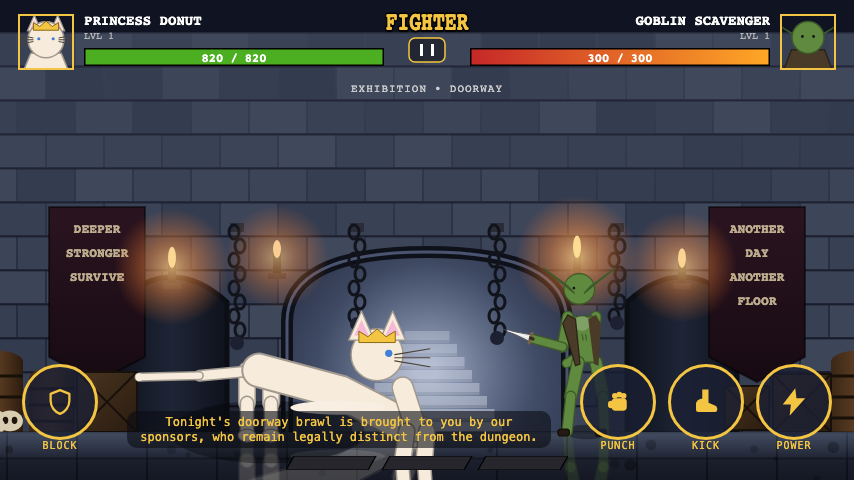
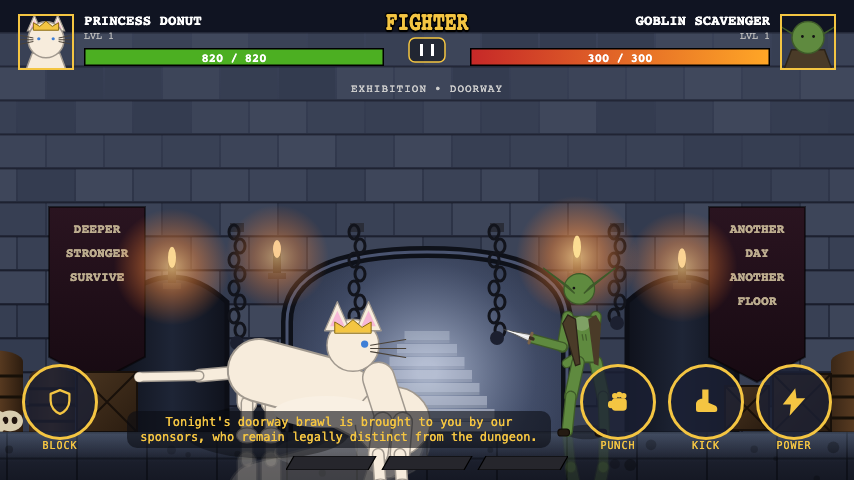
fix: filled quad bodies; calm grub and rat shots
Donut/Grub/Mother Rat's body capsule in drawQuad was sized off leg
width (legW*2.1), reading as a thin wire-bodied noodle next to the
human rig's filled torso. Size it off bodyLen instead (bodyLen*.42),
add a rounder-chest roundel and a wider belly band, tighten each leg's
upper-to-lower taper (.78 -> .55), and trim bodyLen ~15% on all three
looks so the wider body reads long-and-low instead of snake-like.

Regenerated all p3-donut-*.png and p3-quads.png with the filled
bodies. Added docs/shots/p3-grub.png (as p1, since p2's default spawn
position puts a low-slung quad's hip/legs/tail under the always-on
touch-control row) and retook p3-mother.png via --pose idle --floor 2
--node boss for a calm establishing shot instead of a mid-attack frame.

Changed region(s): [[0.1522, 0.625, 0.5176, 1.0]]

diff --git a/index.html b/index.html
@@ -1106,9 +1106,12 @@ const LOOKS={
   // chain accumulates pitch angle segment over segment (spineA, then chestA=spineA+a('chest')), so
   // even a few degrees of "breathing" tilt lifts the chest (and therefore the front-paw attach point)
   // measurably above the hip line, unlike the human rig's independent per-limb angles.
+  // Fix round 1 (art review): bodyLen trimmed ~15% (170->144) and legW bumped (15->18) so the body
+  // capsule drawQuad now draws (width = bodyLen*.42, a filled rounded shape, not a thin stroke) reads
+  // as "long and low", not a snake — see drawQuad's body-drawing comment for the shape itself.
   donut:{rig:'quad',species:'cat',skin:'#f7ecdc',earInner:'#f6b8d6',eye:'#3f7fd6',accent:'#f4c542',
-    hipH:65,legLen:65,bodyLen:170,neckLen:46,headR:26,tailLen:120,
-    frontW:20,backW:24,legW:15,
+    hipH:65,legLen:65,bodyLen:144,neckLen:46,headR:26,tailLen:120,
+    frontW:20,backW:24,legW:18,
     props:['tiara','whiskers']},
   // PLACEHOLDER (Task 3.4 gives Mongo his own RigBig brute rig): a scaled-down copy of the
   // hobgoblin's proportions (def.scale is already 1.25 — full hobgoblin proportions on top of that
@@ -1142,9 +1145,12 @@ const LOOKS={
   // neckLen and headR*1.6 close to 1:1 (46 vs 41.6, 42 vs 41.6); grub matches that ratio at a
   // smaller absolute size instead (headR:16 -> headR*1.6=25.6, neckLen:20) so the head capsule sits
   // snug against the body the way "a dark head capsule" implies.
+  // Fix round 1 (art review): bodyLen trimmed ~15% (140->119) for the same filled-capsule-body
+  // reason as donut above; legW trimmed slightly (16->14) so the now-plumper body still contrasts
+  // against genuinely "stubby nub" legs rather than the legs bulking up to match it.
   grub:{rig:'quad',species:'grub',skin:'#c7d19a',headFill:'#33401d',segDark:'#5a6a30',
-    hipH:40,legLen:40,bodyLen:140,neckLen:15,headR:17,tailLen:36,
-    frontW:13,backW:13,legW:16,
+    hipH:40,legLen:40,bodyLen:119,neckLen:15,headR:17,tailLen:36,
+    frontW:13,backW:13,legW:14,
     props:['segments']},
   // PLACEHOLDER (Task 3.4 gives Grull his own RigBig rig): a scaled-down copy of the hobgoblin's
   // proportions (def.scale is 1.3, the biggest in the roster — see the mongo comment above for why
@@ -1156,10 +1162,12 @@ const LOOKS={
   // Mother Rat (boss): Task 3.4's RigQuad bone set at boss scale (def.scale:1.3, applied on top of
   // these already-large numbers). Grey-brown fur, a long pink tail, big rounded ears, and yellow
   // teeth drawn in drawQuad.
+  // Fix round 1 (art review): bodyLen trimmed ~15% (170->144), legW bumped (18->20) for "bulkier
+  // chest/haunches" on top of the filled-capsule body drawQuad now draws for every quad look.
   mother_rat:{rig:'quad',species:'rat',skin:'#6b5a4a',earInner:'#d98fa0',tailTint:'#d98fa0',
     teeth:'#e8d24a',eye:'#1a1a1a',
-    hipH:65,legLen:65,bodyLen:170,neckLen:42,headR:26,tailLen:170,
-    frontW:22,backW:26,legW:18,
+    hipH:65,legLen:65,bodyLen:144,neckLen:42,headR:26,tailLen:170,
+    frontW:22,backW:26,legW:20,
     props:['teeth']}};
 
 // Resolves a def's look, falling back to LOOKS.carl (once, with a console.warn) for a Phase-3-added
@@ -1372,22 +1380,32 @@ const Rig={
       c.lineWidth=w;c.strokeStyle=col||look.skin;c.beginPath();c.moveTo(p.x,p.y);c.lineTo(q.x,q.y);c.stroke()};
     const paw=(p)=>{const r=look.legW*.58;c.fillStyle=look.skin;c.strokeStyle=skinDark;c.lineWidth=1.2;
       c.beginPath();c.ellipse(p.x,p.y,r,r*.72,0,0,Math.PI*2);c.fill();c.stroke()};
-    // back legs first (behind the body), then the tail (base tucks under the hip)
-    limb(j.blHip,j.bl1,look.legW);limb(j.bl1,j.bl2,look.legW*.78);paw(j.bl2);
-    limb(j.brHip,j.br1,look.legW);limb(j.br1,j.br2,look.legW*.78);paw(j.br2);
+    // back legs first (behind the body), then the tail (base tucks under the hip). Upper legs
+    // noticeably thicker than lower (.55 taper, was .78 in round 1 — art review called the whole rig
+    // "wire-bodied" and this taper is part of giving it real limb volume, matching the human rig's
+    // own thigh/shin taper).
+    limb(j.blHip,j.bl1,look.legW);limb(j.bl1,j.bl2,look.legW*.55);paw(j.bl2);
+    limb(j.brHip,j.br1,look.legW);limb(j.br1,j.br2,look.legW*.55);paw(j.br2);
     limb(j.hip,j.tail1,look.legW*.6,look.tailTint);limb(j.tail1,j.tail2,look.legW*.42,look.tailTint);
     c.fillStyle=look.tailTint||look.skin;c.beginPath();c.arc(j.tail2.x,j.tail2.y,look.legW*.26,0,Math.PI*2);c.fill();
-    // body capsule: a single thick rounded stroke hip->spine->chest, dark outline under a lighter
-    // fill, plus a chest/belly highlight ellipse (the same trick the human torso uses for definition).
+    // Filled body: art review (Fix round 1) called the original hip->chest stroke (width
+    // look.legW*2.1, ~31.5 for donut over a 170-unit body) a "noodle" next to the human rig's filled
+    // torso. bodyW is now tied to bodyLen itself (0.42x) instead of leg thickness, so trimming
+    // bodyLen (also done this round) and widening the body are the same lever — a round, low body
+    // instead of a thin long one. Still drawn as a thick round-capped/joined stroke along
+    // hip->spine->chest (so it follows the spine's pitch bend during pounces/rear-ups instead of a
+    // rigid ellipse), plus a rounder-chest roundel at the front end and a lighter belly band.
     c.lineCap='round';c.lineJoin='round';
-    const bodyW=look.legW*2.1;
+    const bodyW=look.bodyLen*.42;
     c.lineWidth=bodyW+4;c.strokeStyle=skinDark;
     c.beginPath();c.moveTo(j.hip.x,j.hip.y);c.lineTo(j.spine.x,j.spine.y);c.lineTo(j.chest.x,j.chest.y);c.stroke();
     c.lineWidth=bodyW;c.strokeStyle=look.skin;
     c.beginPath();c.moveTo(j.hip.x,j.hip.y);c.lineTo(j.spine.x,j.spine.y);c.lineTo(j.chest.x,j.chest.y);c.stroke();
-    c.fillStyle=shade(look.skin,.18);c.beginPath();
-    c.ellipse((j.hip.x+j.chest.x)/2,(j.hip.y+j.chest.y)/2+bodyW*.22,look.bodyLen*.28,bodyW*.22,0,0,Math.PI*2);c.fill();
-    limb(j.chest,j.neck,bodyW*.62);
+    c.fillStyle=look.skin;c.beginPath();c.ellipse(j.chest.x,j.chest.y,bodyW*.62,bodyW*.58,0,0,Math.PI*2);c.fill();
+    c.lineWidth=1.5;c.strokeStyle=skinDark;c.stroke();
+    c.fillStyle=shade(look.skin,.2);c.beginPath();
+    c.ellipse((j.hip.x+j.chest.x)/2,(j.hip.y+j.chest.y)/2+bodyW*.26,look.bodyLen*.36,bodyW*.26,0,0,Math.PI*2);c.fill();
+    limb(j.chest,j.neck,bodyW*.5);
     // head: a distinct headFill for the grub's dark capsule, otherwise the body's own skin color
     const headFill=look.headFill||look.skin;
     c.fillStyle=headFill;c.beginPath();c.arc(j.head.x,j.head.y,look.headR,0,Math.PI*2);c.fill();
@@ -1411,8 +1429,8 @@ const Rig={
     c.fillStyle=look.eye||'#141414';
     c.beginPath();c.arc(j.head.x+face*look.headR*.45,j.head.y-look.headR*.05,look.headR*.14,0,Math.PI*2);c.fill();
     // front legs, drawn last of the limbs so they sit in front of the body
-    limb(j.flHip,j.fl1,look.legW);limb(j.fl1,j.fl2,look.legW*.78);paw(j.fl2);
-    limb(j.frHip,j.fr1,look.legW);limb(j.fr1,j.fr2,look.legW*.78);paw(j.fr2);
+    limb(j.flHip,j.fl1,look.legW);limb(j.fl1,j.fl2,look.legW*.55);paw(j.fl2);
+    limb(j.frHip,j.fr1,look.legW);limb(j.fr1,j.fr2,look.legW*.55);paw(j.fr2);
     for(const p of look.props||[]){
       if(p==='tiara'){ // a small gold crown resting between the ears
         const w=look.headR*.7,h=look.headR*.42,cx=j.head.x,cy=j.head.y-look.headR*.9;

diff --git a/src/68_rig.js b/src/68_rig.js
@@ -315,9 +315,12 @@ const LOOKS={
   // chain accumulates pitch angle segment over segment (spineA, then chestA=spineA+a('chest')), so
   // even a few degrees of "breathing" tilt lifts the chest (and therefore the front-paw attach point)
   // measurably above the hip line, unlike the human rig's independent per-limb angles.
+  // Fix round 1 (art review): bodyLen trimmed ~15% (170->144) and legW bumped (15->18) so the body
+  // capsule drawQuad now draws (width = bodyLen*.42, a filled rounded shape, not a thin stroke) reads
+  // as "long and low", not a snake — see drawQuad's body-drawing comment for the shape itself.
   donut:{rig:'quad',species:'cat',skin:'#f7ecdc',earInner:'#f6b8d6',eye:'#3f7fd6',accent:'#f4c542',
-    hipH:65,legLen:65,bodyLen:170,neckLen:46,headR:26,tailLen:120,
-    frontW:20,backW:24,legW:15,
+    hipH:65,legLen:65,bodyLen:144,neckLen:46,headR:26,tailLen:120,
+    frontW:20,backW:24,legW:18,
     props:['tiara','whiskers']},
   // PLACEHOLDER (Task 3.4 gives Mongo his own RigBig brute rig): a scaled-down copy of the
   // hobgoblin's proportions (def.scale is already 1.25 — full hobgoblin proportions on top of that
@@ -351,9 +354,12 @@ const LOOKS={
   // neckLen and headR*1.6 close to 1:1 (46 vs 41.6, 42 vs 41.6); grub matches that ratio at a
   // smaller absolute size instead (headR:16 -> headR*1.6=25.6, neckLen:20) so the head capsule sits
   // snug against the body the way "a dark head capsule" implies.
+  // Fix round 1 (art review): bodyLen trimmed ~15% (140->119) for the same filled-capsule-body
+  // reason as donut above; legW trimmed slightly (16->14) so the now-plumper body still contrasts
+  // against genuinely "stubby nub" legs rather than the legs bulking up to match it.
   grub:{rig:'quad',species:'grub',skin:'#c7d19a',headFill:'#33401d',segDark:'#5a6a30',
-    hipH:40,legLen:40,bodyLen:140,neckLen:15,headR:17,tailLen:36,
-    frontW:13,backW:13,legW:16,
+    hipH:40,legLen:40,bodyLen:119,neckLen:15,headR:17,tailLen:36,
+    frontW:13,backW:13,legW:14,
     props:['segments']},
   // PLACEHOLDER (Task 3.4 gives Grull his own RigBig rig): a scaled-down copy of the hobgoblin's
   // proportions (def.scale is 1.3, the biggest in the roster — see the mongo comment above for why
@@ -365,10 +371,12 @@ const LOOKS={
   // Mother Rat (boss): Task 3.4's RigQuad bone set at boss scale (def.scale:1.3, applied on top of
   // these already-large numbers). Grey-brown fur, a long pink tail, big rounded ears, and yellow
   // teeth drawn in drawQuad.
+  // Fix round 1 (art review): bodyLen trimmed ~15% (170->144), legW bumped (18->20) for "bulkier
+  // chest/haunches" on top of the filled-capsule body drawQuad now draws for every quad look.
   mother_rat:{rig:'quad',species:'rat',skin:'#6b5a4a',earInner:'#d98fa0',tailTint:'#d98fa0',
     teeth:'#e8d24a',eye:'#1a1a1a',
-    hipH:65,legLen:65,bodyLen:170,neckLen:42,headR:26,tailLen:170,
-    frontW:22,backW:26,legW:18,
+    hipH:65,legLen:65,bodyLen:144,neckLen:42,headR:26,tailLen:170,
+    frontW:22,backW:26,legW:20,
     props:['teeth']}};
 
 // Resolves a def's look, falling back to LOOKS.carl (once, with a console.warn) for a Phase-3-added
@@ -581,22 +589,32 @@ const Rig={
       c.lineWidth=w;c.strokeStyle=col||look.skin;c.beginPath();c.moveTo(p.x,p.y);c.lineTo(q.x,q.y);c.stroke()};
     const paw=(p)=>{const r=look.legW*.58;c.fillStyle=look.skin;c.strokeStyle=skinDark;c.lineWidth=1.2;
       c.beginPath();c.ellipse(p.x,p.y,r,r*.72,0,0,Math.PI*2);c.fill();c.stroke()};
-    // back legs first (behind the body), then the tail (base tucks under the hip)
-    limb(j.blHip,j.bl1,look.legW);limb(j.bl1,j.bl2,look.legW*.78);paw(j.bl2);
-    limb(j.brHip,j.br1,look.legW);limb(j.br1,j.br2,look.legW*.78);paw(j.br2);
+    // back legs first (behind the body), then the tail (base tucks under the hip). Upper legs
+    // noticeably thicker than lower (.55 taper, was .78 in round 1 — art review called the whole rig
+    // "wire-bodied" and this taper is part of giving it real limb volume, matching the human rig's
+    // own thigh/shin taper).
+    limb(j.blHip,j.bl1,look.legW);limb(j.bl1,j.bl2,look.legW*.55);paw(j.bl2);
+    limb(j.brHip,j.br1,look.legW);limb(j.br1,j.br2,look.legW*.55);paw(j.br2);
     limb(j.hip,j.tail1,look.legW*.6,look.tailTint);limb(j.tail1,j.tail2,look.legW*.42,look.tailTint);
     c.fillStyle=look.tailTint||look.skin;c.beginPath();c.arc(j.tail2.x,j.tail2.y,look.legW*.26,0,Math.PI*2);c.fill();
-    // body capsule: a single thick rounded stroke hip->spine->chest, dark outline under a lighter
-    // fill, plus a chest/belly highlight ellipse (the same trick the human torso uses for definition).
+    // Filled body: art review (Fix round 1) called the original hip->chest stroke (width
+    // look.legW*2.1, ~31.5 for donut over a 170-unit body) a "noodle" next to the human rig's filled
+    // torso. bodyW is now tied to bodyLen itself (0.42x) instead of leg thickness, so trimming
+    // bodyLen (also done this round) and widening the body are the same lever — a round, low body
+    // instead of a thin long one. Still drawn as a thick round-capped/joined stroke along
+    // hip->spine->chest (so it follows the spine's pitch bend during pounces/rear-ups instead of a
+    // rigid ellipse), plus a rounder-chest roundel at the front end and a lighter belly band.
     c.lineCap='round';c.lineJoin='round';
-    const bodyW=look.legW*2.1;
+    const bodyW=look.bodyLen*.42;
     c.lineWidth=bodyW+4;c.strokeStyle=skinDark;
     c.beginPath();c.moveTo(j.hip.x,j.hip.y);c.lineTo(j.spine.x,j.spine.y);c.lineTo(j.chest.x,j.chest.y);c.stroke();
     c.lineWidth=bodyW;c.strokeStyle=look.skin;
     c.beginPath();c.moveTo(j.hip.x,j.hip.y);c.lineTo(j.spine.x,j.spine.y);c.lineTo(j.chest.x,j.chest.y);c.stroke();
-    c.fillStyle=shade(look.skin,.18);c.beginPath();
-    c.ellipse((j.hip.x+j.chest.x)/2,(j.hip.y+j.chest.y)/2+bodyW*.22,look.bodyLen*.28,bodyW*.22,0,0,Math.PI*2);c.fill();
-    limb(j.chest,j.neck,bodyW*.62);
+    c.fillStyle=look.skin;c.beginPath();c.ellipse(j.chest.x,j.chest.y,bodyW*.62,bodyW*.58,0,0,Math.PI*2);c.fill();
+    c.lineWidth=1.5;c.strokeStyle=skinDark;c.stroke();
+    c.fillStyle=shade(look.skin,.2);c.beginPath();
+    c.ellipse((j.hip.x+j.chest.x)/2,(j.hip.y+j.chest.y)/2+bodyW*.26,look.bodyLen*.36,bodyW*.26,0,0,Math.PI*2);c.fill();
+    limb(j.chest,j.neck,bodyW*.5);
     // head: a distinct headFill for the grub's dark capsule, otherwise the body's own skin color
     const headFill=look.headFill||look.skin;
     c.fillStyle=headFill;c.beginPath();c.arc(j.head.x,j.head.y,look.headR,0,Math.PI*2);c.fill();
@@ -620,8 +638,8 @@ const Rig={
     c.fillStyle=look.eye||'#141414';
     c.beginPath();c.arc(j.head.x+face*look.headR*.45,j.head.y-look.headR*.05,look.headR*.14,0,Math.PI*2);c.fill();
     // front legs, drawn last of the limbs so they sit in front of the body
-    limb(j.flHip,j.fl1,look.legW);limb(j.fl1,j.fl2,look.legW*.78);paw(j.fl2);
-    limb(j.frHip,j.fr1,look.legW);limb(j.fr1,j.fr2,look.legW*.78);paw(j.fr2);
+    limb(j.flHip,j.fl1,look.legW);limb(j.fl1,j.fl2,look.legW*.55);paw(j.fl2);
+    limb(j.frHip,j.fr1,look.legW);limb(j.fr1,j.fr2,look.legW*.55);paw(j.fr2);
     for(const p of look.props||[]){
       if(p==='tiara'){ // a small gold crown resting between the ears
         const w=look.headR*.7,h=look.headR*.42,cx=j.head.x,cy=j.head.y-look.headR*.9;
